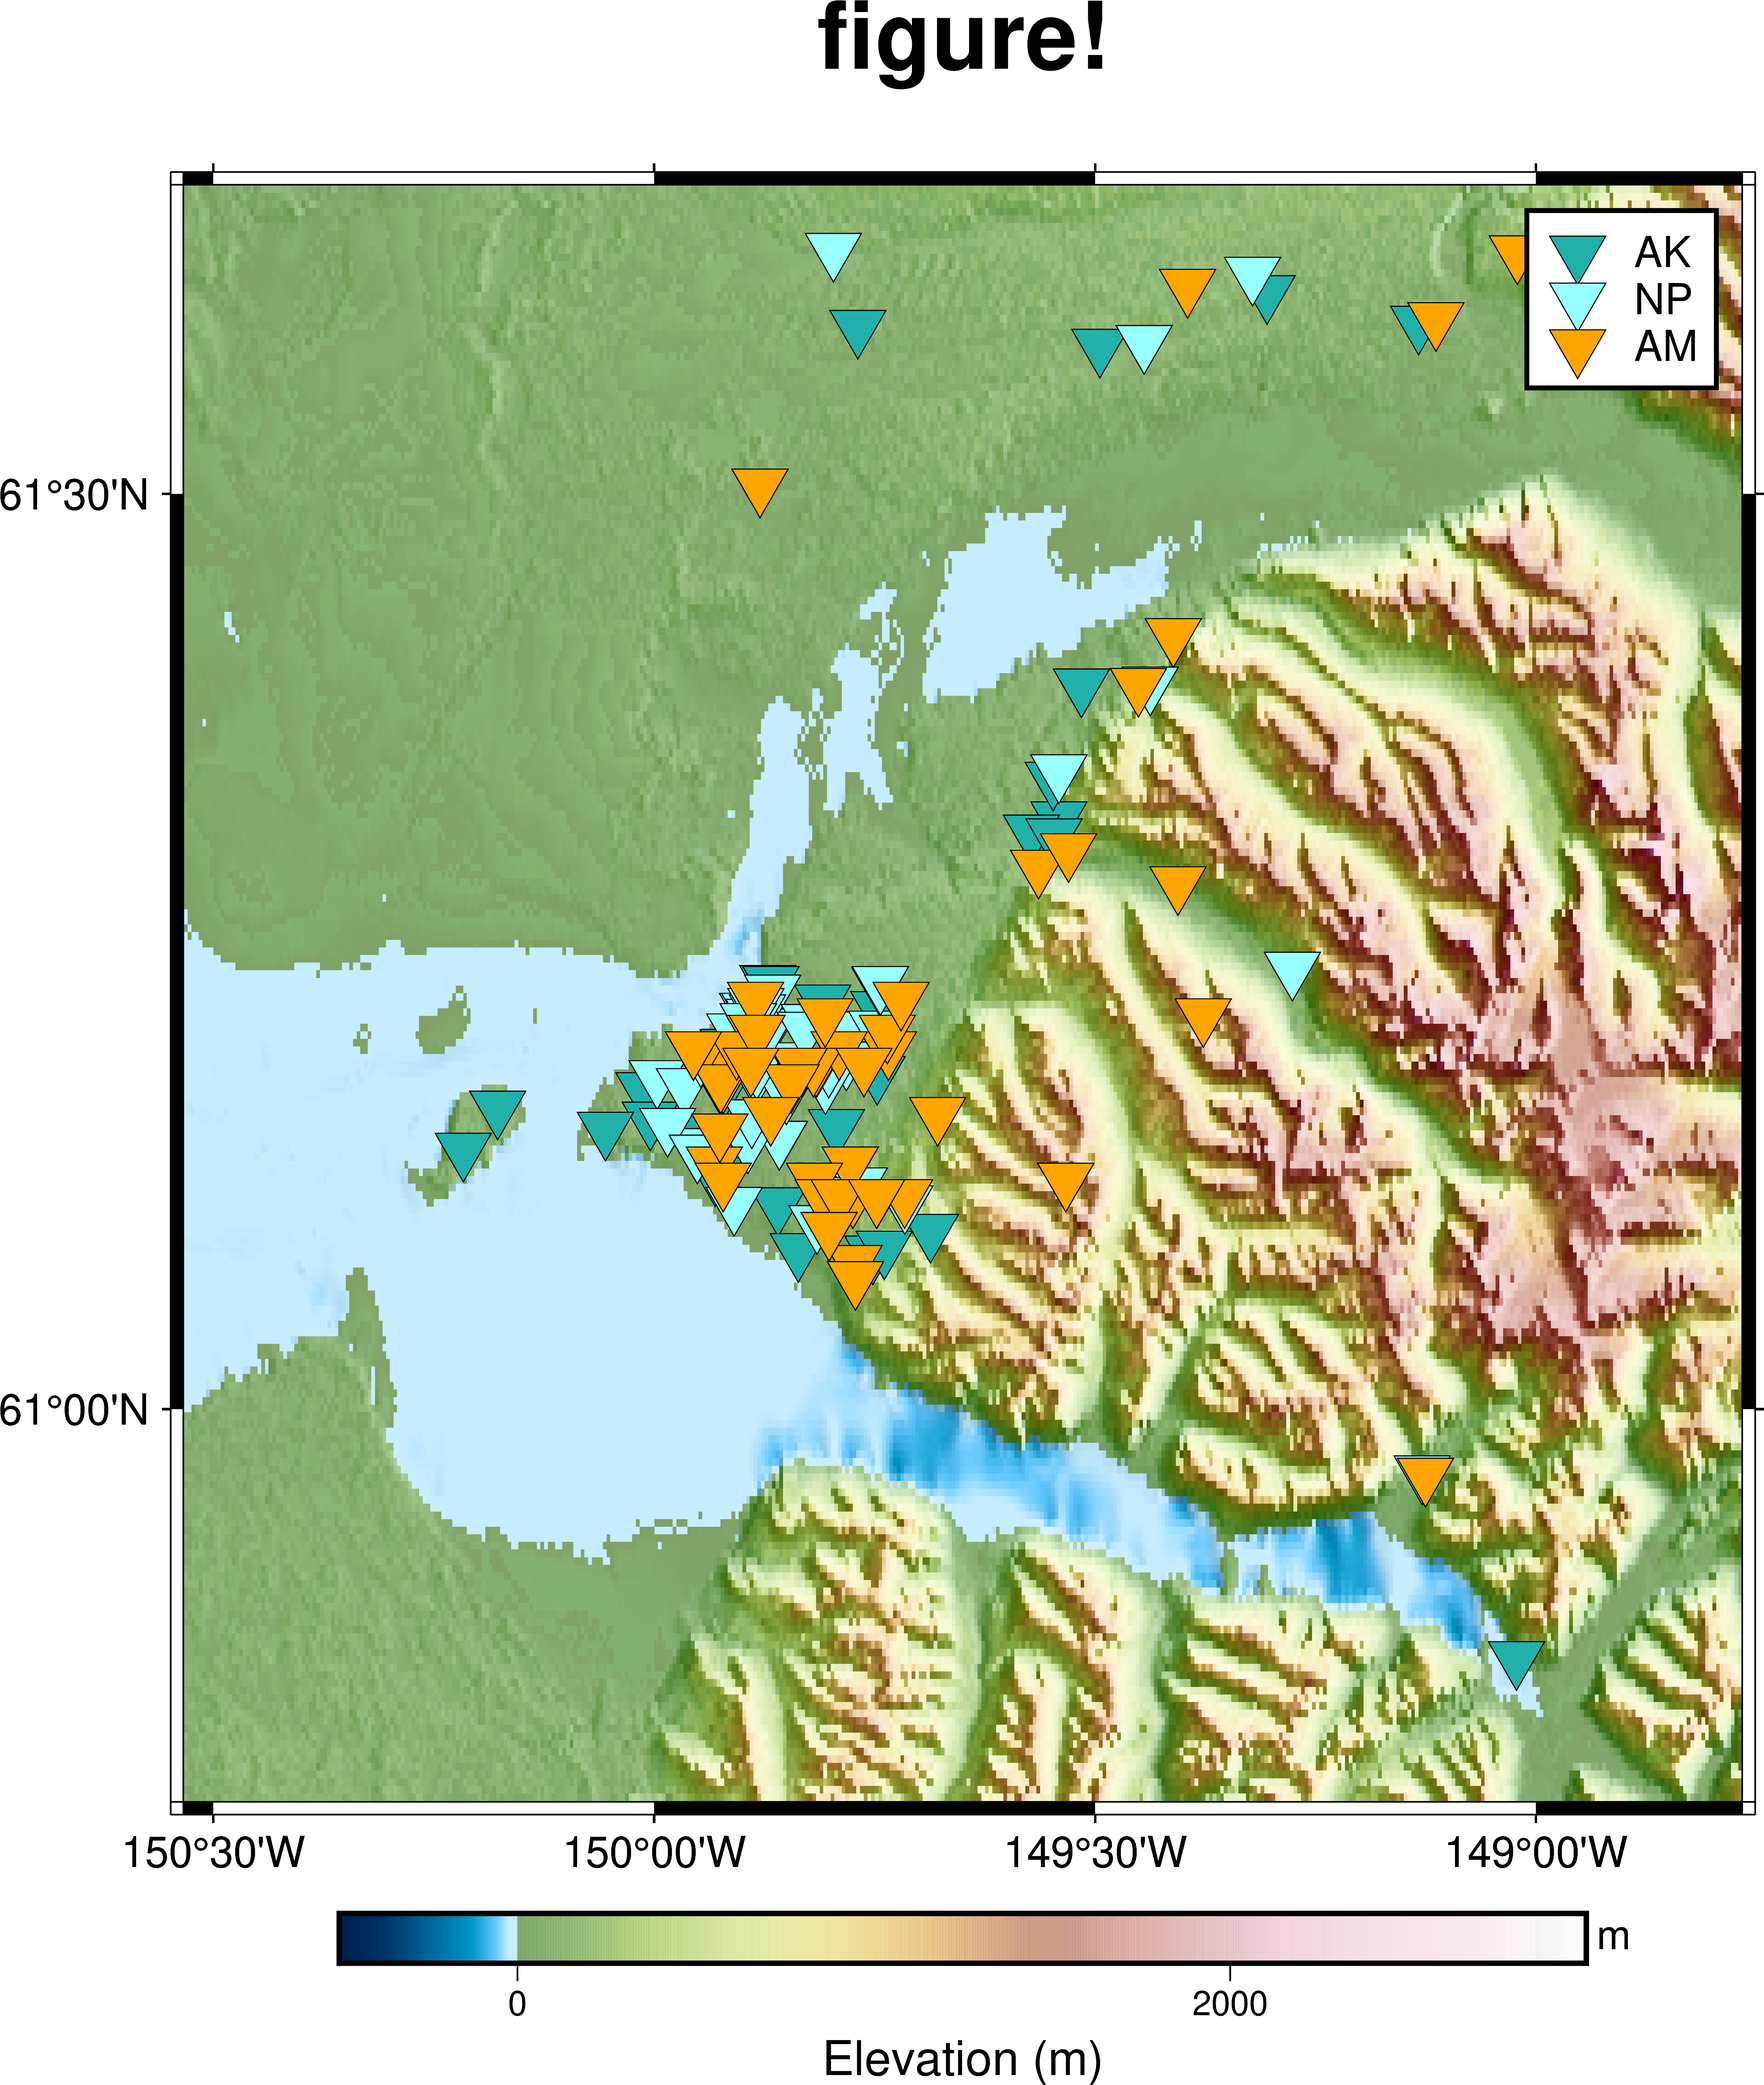
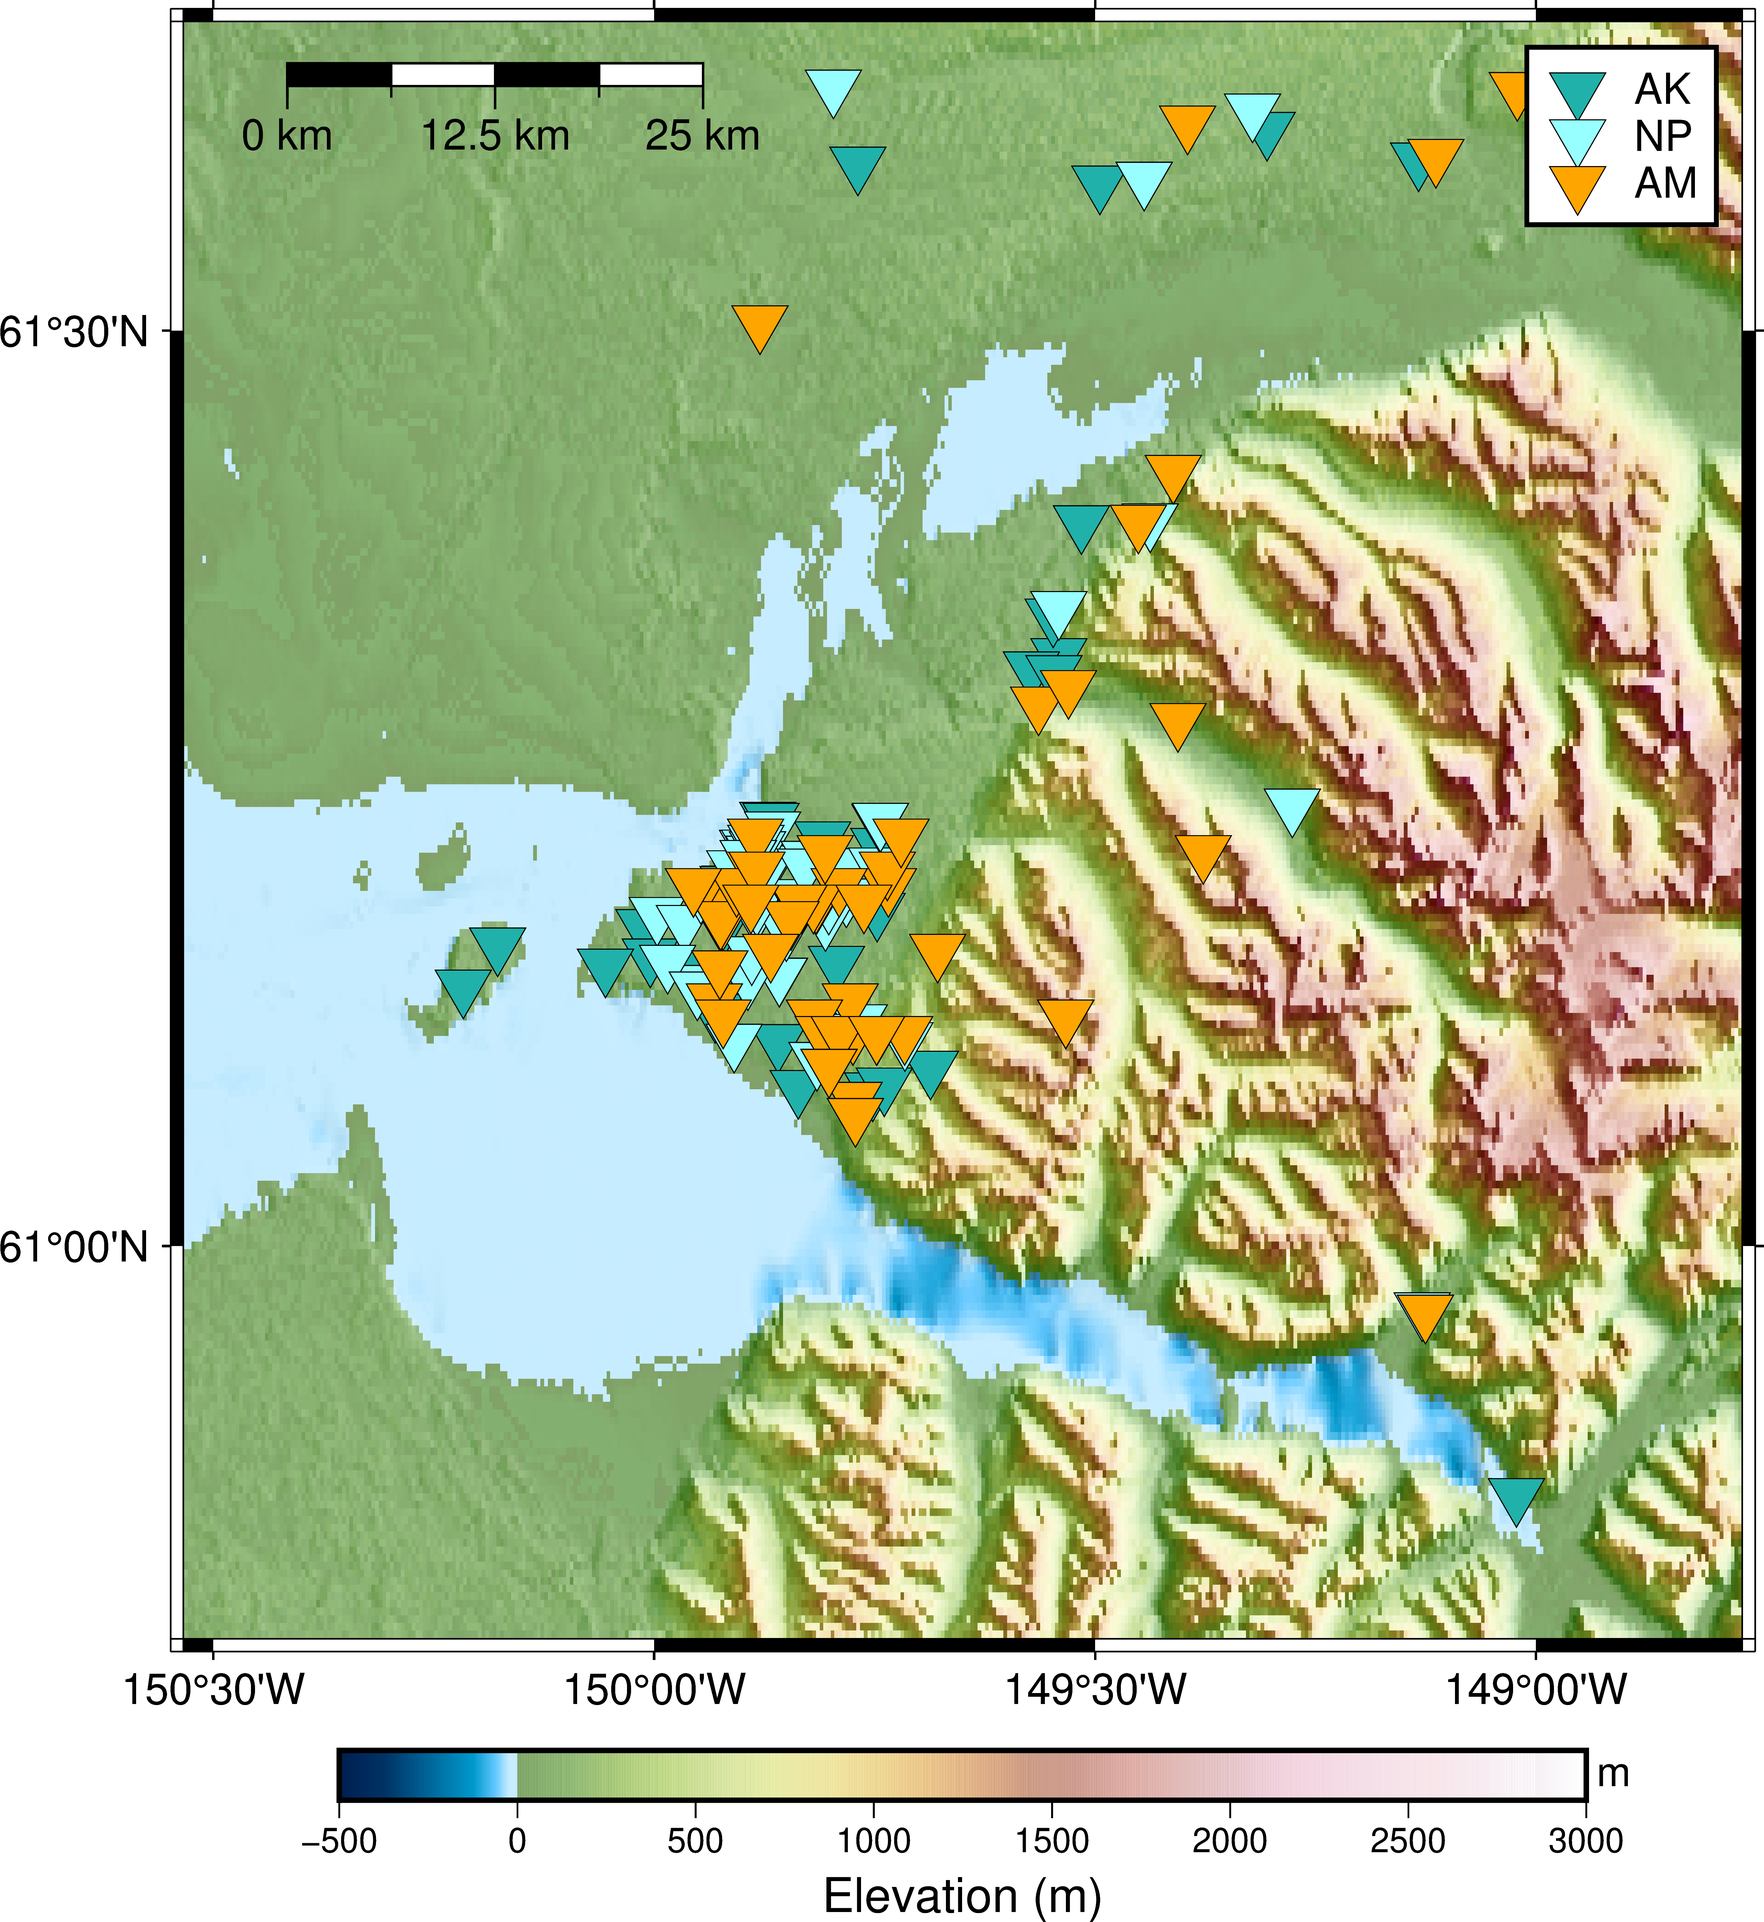
Update general_mapping
plot_base_map() can now add scale bars

diff --git a/AnchorageStations.py b/AnchorageStations.py
@@ -29,7 +29,10 @@ fig = gm.plot_base_map(region=bounds,
                        resolution='15s',
                        cmap=cmap,
                        data_source='gebco',
-                       bathymetry=True,margin=0.02)
+                       bathymetry=True,margin=0.02,
+                       map_scale="n0.2/0.96+w50k+f+u",
+                       scalebar_height=10,
+                       colorbar_tick=500)
 
 c = Client('IRIS')
 
@@ -56,18 +59,22 @@ for i, net in enumerate(inv):
              label=f'{net.code}')
         
 fig.legend()
+
 gm.save_fig(fig,'AnchorageRegion',dpi=960)
 
 fig.show()
 
-#=============================Local Overview================================
+#=============================AK Only Velocity================================
 bounds = [-150.5, -148.8, 60.8, 61.65]
 fig = gm.plot_base_map(region=bounds,
                        projection='M-150.2/61.3/12c',
                        resolution='15s',
                        data_source='gebco',
                        cmap=cmap,
-                       bathymetry=True,margin=0.02)
+                       bathymetry=True,margin=0.02,
+                       map_scale="n0.2/0.96+w25k+f+u",
+                       scalebar_height=10,
+                       colorbar_tick=500)
 
 c = Client('IRIS')
 
@@ -77,7 +84,8 @@ inv = c.get_stations(starttime=UTCDateTime('2000-01-01'),
                      maxlatitude=bounds[3],
                      minlongitude=bounds[0],
                      maxlongitude=bounds[1],
-                     network='AK,NP')
+                     network='AK',
+                     channel='*HZ')
 
 for i, net in enumerate(inv):
     lons = []
@@ -90,11 +98,93 @@ for i, net in enumerate(inv):
              y=lats,
              style='i0.5c',
              pen='0.2p',
-             fill=f'{color[i]}',
+             fill=f'{color[0]}',
              label=f'{net.code}')
         
 fig.legend()
-gm.save_fig(fig,'AnchorageLocalPermanent',dpi=960)
+gm.save_fig(fig,'AnchorageAK_Vel_Only',dpi=960)
+
+fig.show()
+
+#=============================AK Overview================================
+bounds = [-150.5, -148.8, 60.8, 61.65]
+fig = gm.plot_base_map(region=bounds,
+                       projection='M-150.2/61.3/12c',
+                       resolution='15s',
+                       data_source='gebco',
+                       cmap=cmap,
+                       bathymetry=True,margin=0.02,
+                       map_scale="n0.2/0.96+w25k+f+u",
+                       scalebar_height=10,
+                       colorbar_tick=500)
+
+c = Client('IRIS')
+
+inv = c.get_stations(starttime=UTCDateTime('2000-01-01'),
+                     endtime=UTCDateTime('2025-04-01'),
+                     minlatitude=bounds[2],
+                     maxlatitude=bounds[3],
+                     minlongitude=bounds[0],
+                     maxlongitude=bounds[1],
+                     network='AK')
+
+for i, net in enumerate(inv):
+    lons = []
+    lats = []
+    for stat in net:
+        lons.append(stat.longitude)
+        lats.append(stat.latitude)
+    
+    fig.plot(x=lons,
+             y=lats,
+             style='i0.5c',
+             pen='0.2p',
+             fill=f'{color[0]}',
+             label=f'{net.code}')
+        
+fig.legend()
+gm.save_fig(fig,'AnchorageAK',dpi=960)
+
+fig.show()
+
+#=============================NP Overview================================
+bounds = [-150.5, -148.8, 60.8, 61.65]
+fig = gm.plot_base_map(region=bounds,
+                       projection='M-150.2/61.3/12c',
+                       resolution='15s',
+                       data_source='gebco',
+                       cmap=cmap,
+                       bathymetry=True,margin=0.02,
+                       map_scale="n0.2/0.96+w25k+f+u",
+                       scalebar_height=10,
+                       colorbar_tick=500)
+
+c = Client('IRIS')
+
+inv = c.get_stations(starttime=UTCDateTime('2000-01-01'),
+                     endtime=UTCDateTime('2025-04-01'),
+                     minlatitude=bounds[2],
+                     maxlatitude=bounds[3],
+                     minlongitude=bounds[0],
+                     maxlongitude=bounds[1],
+                     network='NP')
+
+for i, net in enumerate(inv):
+    lons = []
+    lats = []
+    for stat in net:
+        lons.append(stat.longitude)
+        lats.append(stat.latitude)
+    
+    fig.plot(x=lons,
+             y=lats,
+             style='i0.5c',
+             pen='0.2p',
+             fill=f'{color[1]}',
+             label=f'{net.code}')
+        
+fig.legend()
+gm.save_fig(fig,'AnchorageNP',dpi=960)
 
 fig.show()
 
@@ -105,7 +195,10 @@ fig = gm.plot_base_map(region=bounds,
                        resolution='15s',
                        data_source='gebco',
                        cmap=cmap,
-                       bathymetry=True,margin=0.02)
+                       bathymetry=True,margin=0.02,
+                       map_scale="n0.2/0.96+w25k+f+u",
+                       scalebar_height=10,
+                       colorbar_tick=500)
 
 c = Client('RASPISHAKE')
 
@@ -128,7 +221,7 @@ for i, net in enumerate(inv2):
              y=lats,
              style='i0.5c',
              pen='0.2p',
-             fill='orange',
+             fill=f'{color[2]}',
              label=f'{net.code}')
         
 fig.legend()
@@ -137,7 +230,18 @@ gm.save_fig(fig,'AnchorageRaspShake',dpi=960)
 fig.show()
 
 #================All Stations===================================
+c = Client('IRIS')
+
+inv = c.get_stations(starttime=UTCDateTime('2000-01-01'),
+                     endtime=UTCDateTime('2025-04-01'),
+                     minlatitude=bounds[2],
+                     maxlatitude=bounds[3],
+                     minlongitude=bounds[0],
+                     maxlongitude=bounds[1],
+                     network='AK,NP')
+
 inv = inv + inv2
+
 bounds = [-150.5, -148.8, 60.8, 61.65]
 
 fig = gm.plot_base_map(region=bounds,
@@ -145,7 +249,10 @@ fig = gm.plot_base_map(region=bounds,
                        resolution='15s',
                        data_source='gebco',
                        cmap=cmap,
-                       bathymetry=True,margin=0.02)
+                       bathymetry=True,margin=0.02,
+                       map_scale="n0.2/0.96+w25k+f+u",
+                       scalebar_height=10,
+                       colorbar_tick=500)
 
 for i, net in enumerate(inv):
     lons = []

diff --git a/scripts/general_mapping.py b/scripts/general_mapping.py
@@ -171,11 +171,11 @@ def find_elevation_range(grid):
 
     return min_elev, max_elev
 
-def plot_base_map(region,projection="Q15c+du",figure_name="figure!",
-                  resolution='03s',
+def plot_base_map(region,projection="Q15c+du",figure_name: str=None, resolution='01m',
                   cmap="./Resources/colormaps/cpt-city/colombia.cpt",
                   box_bounds=None,margin=0.1,bathymetry=False,
-                  watercolor=None,colorbar_tick=2000,data_source: str='igpp'):
+                  watercolor=None,colorbar_tick=2000,data_source: str='igpp',
+                  map_scale: str=None,scalebar_height: float=10):
     """
     Parameters
     ----------
@@ -220,12 +220,18 @@ def plot_base_map(region,projection="Q15c+du",figure_name="figure!",
     fig.basemap(region=bounds,
                 projection=projection,
                 frame=True)
-    fig.grdimage(grid=grid,
-                 shading=shade,
-                 projection=projection,
-                 frame=["a",f"+t{figure_name}"],
-                 cmap=cmap)
-
+    if figure_name is not None:
+        fig.grdimage(grid=grid,
+                     shading=shade,
+                     projection=projection,
+                     frame=["a",f"+t{figure_name}"],
+                     cmap=cmap)
+    else:
+        fig.grdimage(grid=grid,
+                     shading=shade,
+                     projection=projection,
+                     frame=["a"],
+                     cmap=cmap)
 
     if bathymetry:
         fig.colorbar(frame=[f"a{colorbar_tick}", "x+lElevation (m)", "y+lm"])
@@ -252,6 +258,10 @@ def plot_base_map(region,projection="Q15c+du",figure_name="figure!",
         fig.plot(x=blons,
                  y=blats,
                  pen="1p")
+        
+    if map_scale != None:
+        with pygmt.config(MAP_SCALE_HEIGHT=f"{scalebar_height}p"):
+            fig.basemap(map_scale=map_scale)
 
     return fig
 
